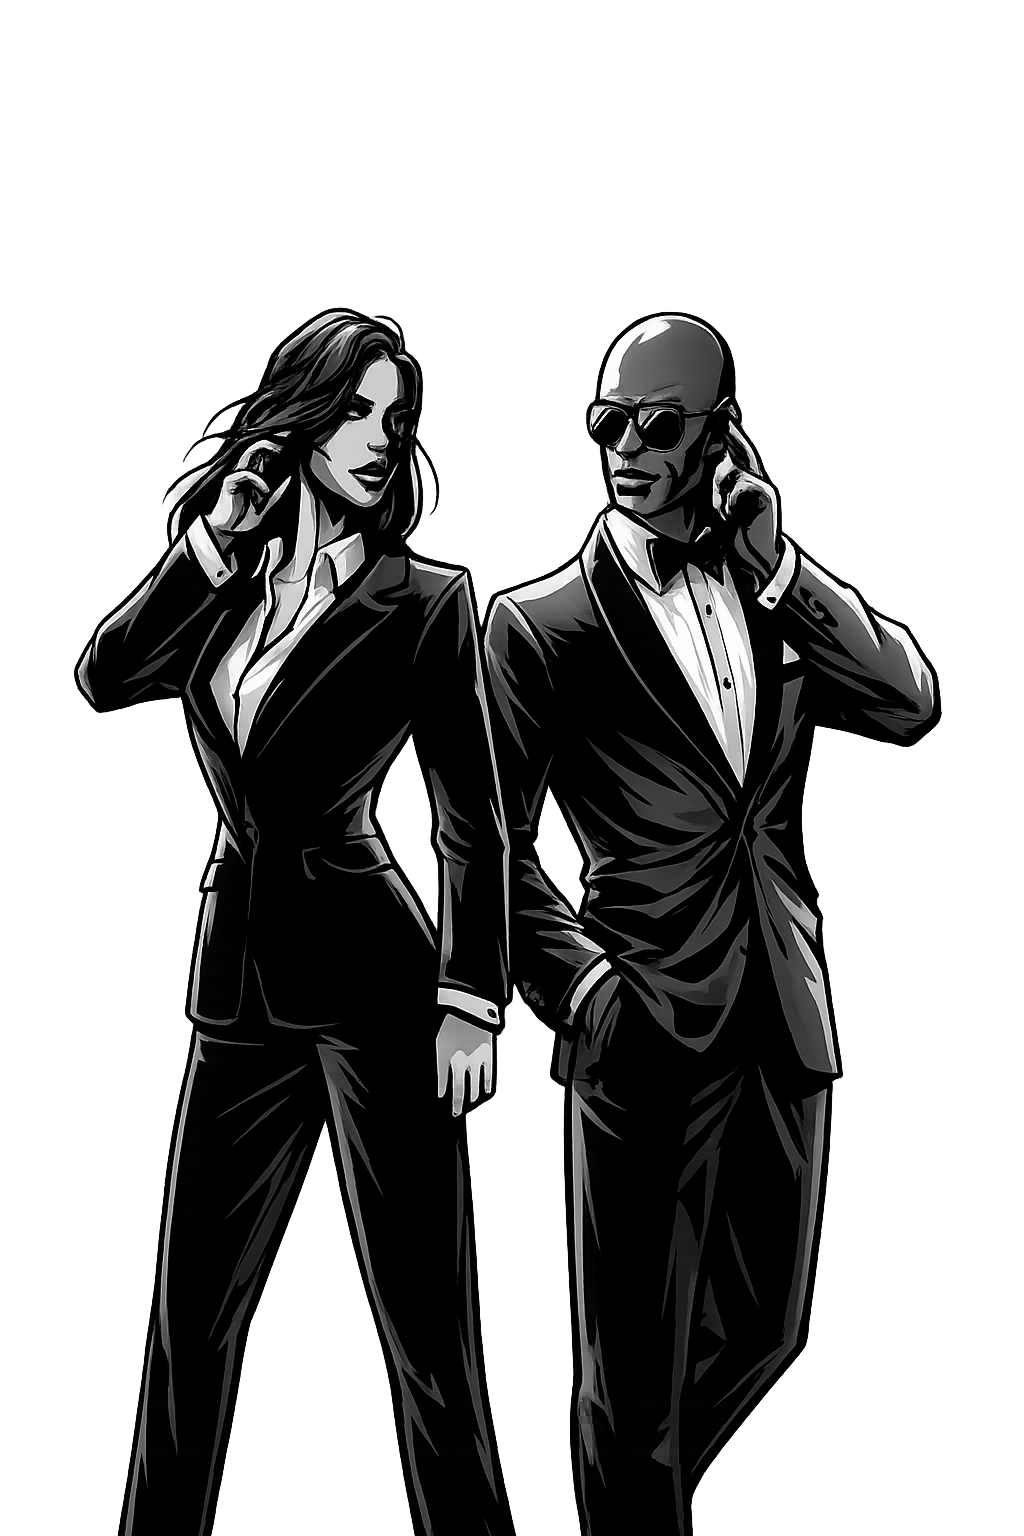
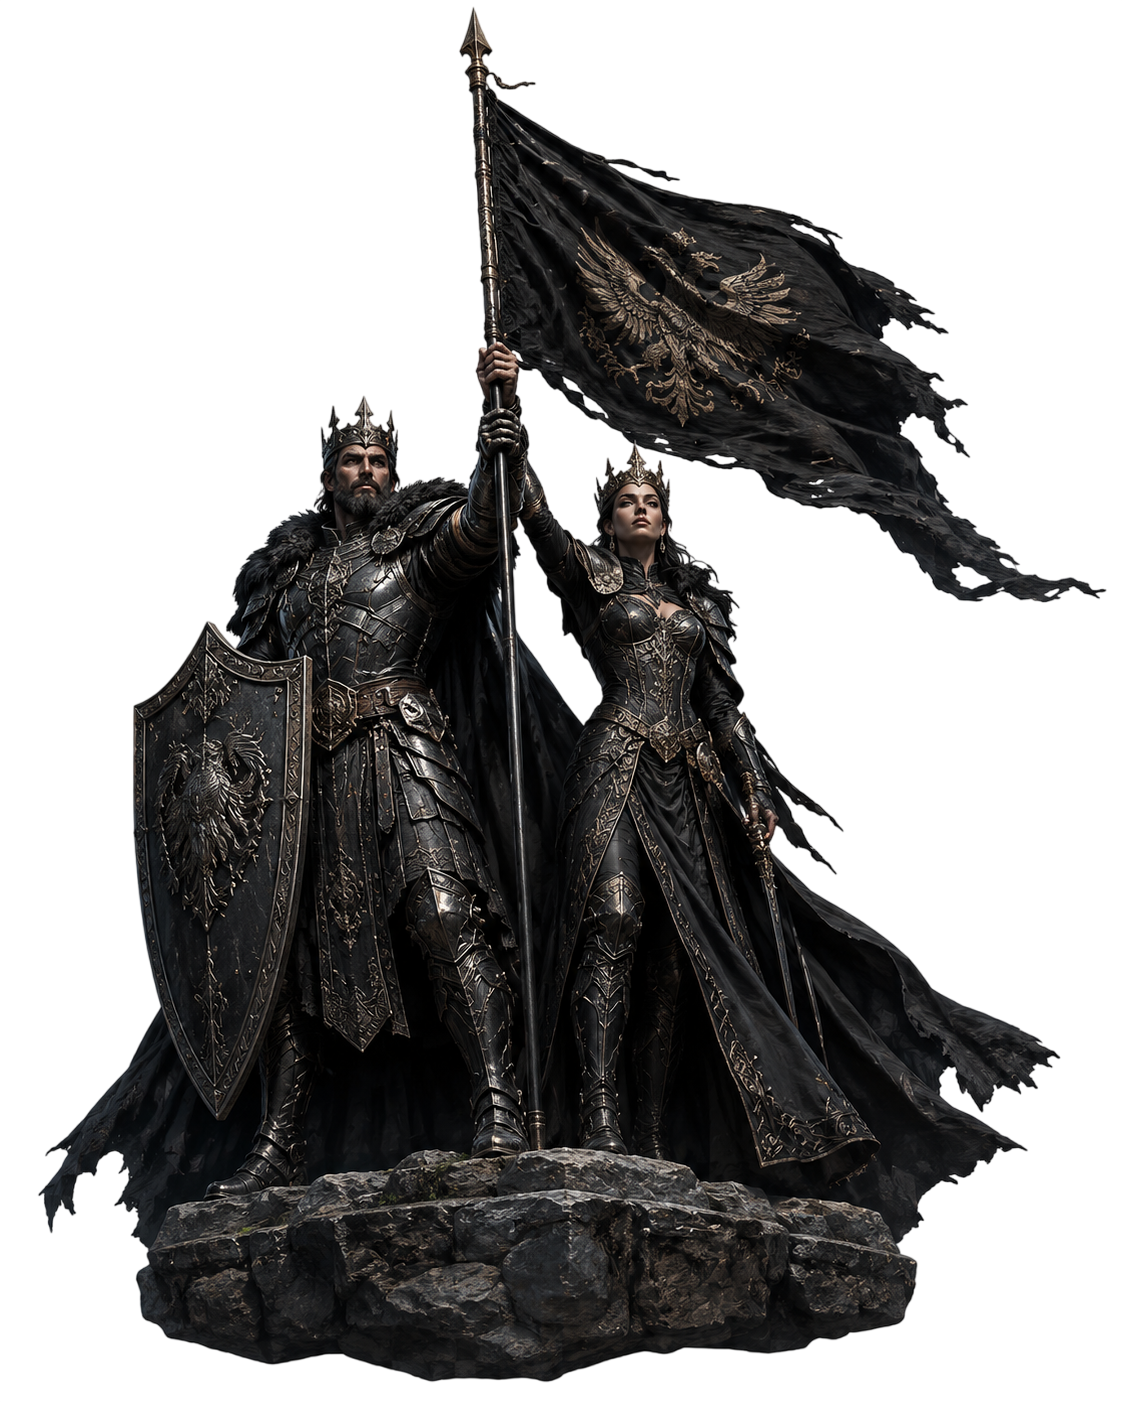
updates

diff --git a/public/style.css b/public/style.css
@@ -2076,3 +2076,138 @@ html body.discordActivity #app #game.gameV9 > aside.teamPanel > section:not(.sid
 .logAvatarPopoverImage:not(:has(> img)) > .logAvatarPopoverName {
     bottom: 4px !important;
 }
+
+html body .spymasterClueStage,
+html body.discordActivity .spymasterClueStage {
+    max-width: 94vw !important;
+    max-height: 92vh !important;
+}
+
+html body .spymasterClueImg,
+html body.discordActivity .spymasterClueImg,
+html body .spymasterClueImg.spymasterImageMissing,
+html body.discordActivity .spymasterClueImg.spymasterImageMissing {
+    width: clamp(390px, 42vw, 680px) !important;
+    height: clamp(390px, 58vh, 680px) !important;
+}
+
+html body .spymasterClueBox,
+html body.discordActivity .spymasterClueBox {
+    width: max-content !important;
+    min-width: 0 !important;
+    max-width: min(88vw, 680px) !important;
+    padding: 11px 18px 12px !important;
+    box-sizing: border-box !important;
+}
+
+html body #spymasterClueWord,
+html body.discordActivity #spymasterClueWord {
+    width: max-content !important;
+    max-width: min(82vw, 620px) !important;
+    margin: 0 auto !important;
+    white-space: nowrap !important;
+    overflow-wrap: normal !important;
+    word-break: normal !important;
+}
+
+@media (max-width: 760px) {
+    html body .spymasterClueImg,
+    html body.discordActivity .spymasterClueImg,
+    html body .spymasterClueImg.spymasterImageMissing,
+    html body.discordActivity .spymasterClueImg.spymasterImageMissing {
+        width: clamp(285px, 82vw, 440px) !important;
+        height: clamp(285px, 52vh, 440px) !important;
+    }
+
+    html body .spymasterClueBox,
+    html body.discordActivity .spymasterClueBox {
+        max-width: 90vw !important;
+        padding: 10px 14px 11px !important;
+    }
+
+    html body #spymasterClueWord,
+    html body.discordActivity #spymasterClueWord {
+        max-width: 82vw !important;
+        white-space: normal !important;
+        text-wrap: balance !important;
+    }
+}
+
+html body .spymasterClueStage,
+html body.discordActivity .spymasterClueStage {
+    left: 50% !important;
+    top: 50% !important;
+    width: min(94vw, 920px) !important;
+    height: min(86vh, 860px) !important;
+    max-width: 94vw !important;
+    max-height: 86vh !important;
+    display: grid !important;
+    place-items: center !important;
+    transform: translate(-50%, -50%) scale(.78);
+}
+
+html body .spymasterClueImg,
+html body.discordActivity .spymasterClueImg,
+html body .spymasterClueImg.spymasterImageMissing,
+html body.discordActivity .spymasterClueImg.spymasterImageMissing {
+    width: min(90vw, 860px) !important;
+    height: min(80vh, 800px) !important;
+    max-width: 90vw !important;
+    max-height: 80vh !important;
+    object-fit: contain !important;
+    margin: 0 auto !important;
+}
+
+html body .spymasterClueBox,
+html body.discordActivity .spymasterClueBox {
+    left: 50% !important;
+    top: auto !important;
+    bottom: clamp(18px, 3vh, 34px) !important;
+    transform: translateX(-50%) !important;
+    width: max-content !important;
+    min-width: 0 !important;
+    max-width: min(84vw, 760px) !important;
+    padding: 12px 20px 13px !important;
+    z-index: 8 !important;
+}
+
+html body #spymasterClueWord,
+html body.discordActivity #spymasterClueWord {
+    width: max-content !important;
+    max-width: min(78vw, 700px) !important;
+    margin: 0 auto !important;
+    white-space: nowrap !important;
+}
+
+@media (max-width: 760px) {
+    html body .spymasterClueStage,
+    html body.discordActivity .spymasterClueStage {
+        width: 94vw !important;
+        height: 82vh !important;
+        max-height: 82vh !important;
+    }
+
+    html body .spymasterClueImg,
+    html body.discordActivity .spymasterClueImg,
+    html body .spymasterClueImg.spymasterImageMissing,
+    html body.discordActivity .spymasterClueImg.spymasterImageMissing {
+        width: 92vw !important;
+        height: 74vh !important;
+        max-width: 92vw !important;
+        max-height: 74vh !important;
+    }
+
+    html body .spymasterClueBox,
+    html body.discordActivity .spymasterClueBox {
+        bottom: 14px !important;
+        max-width: 88vw !important;
+        padding: 10px 15px 11px !important;
+    }
+
+    html body #spymasterClueWord,
+    html body.discordActivity #spymasterClueWord {
+        max-width: 82vw !important;
+        white-space: normal !important;
+        text-wrap: balance !important;
+    }
+}

diff --git a/public/index.html b/public/index.html
@@ -4,7 +4,7 @@
     <meta charset="utf-8"/>
     <meta name="viewport" content="width=device-width,initial-scale=1"/>
     <title>CODENAMES DSTY</title>
-    <link rel="stylesheet" href="/style.css?v=171"/>
+    <link rel="stylesheet" href="/style.css?v=173"/>
     <link rel="stylesheet" href="/10-game-start-and-deal.css?v=2"/>
 </head>
 <body>
